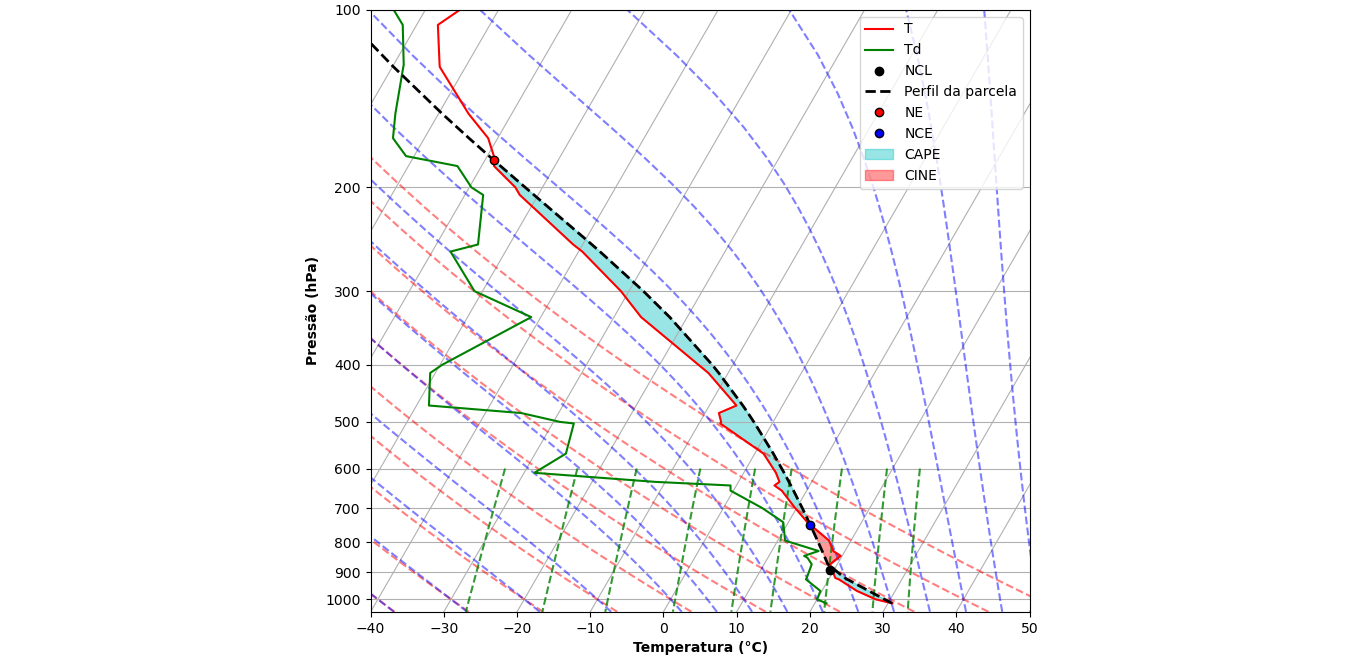
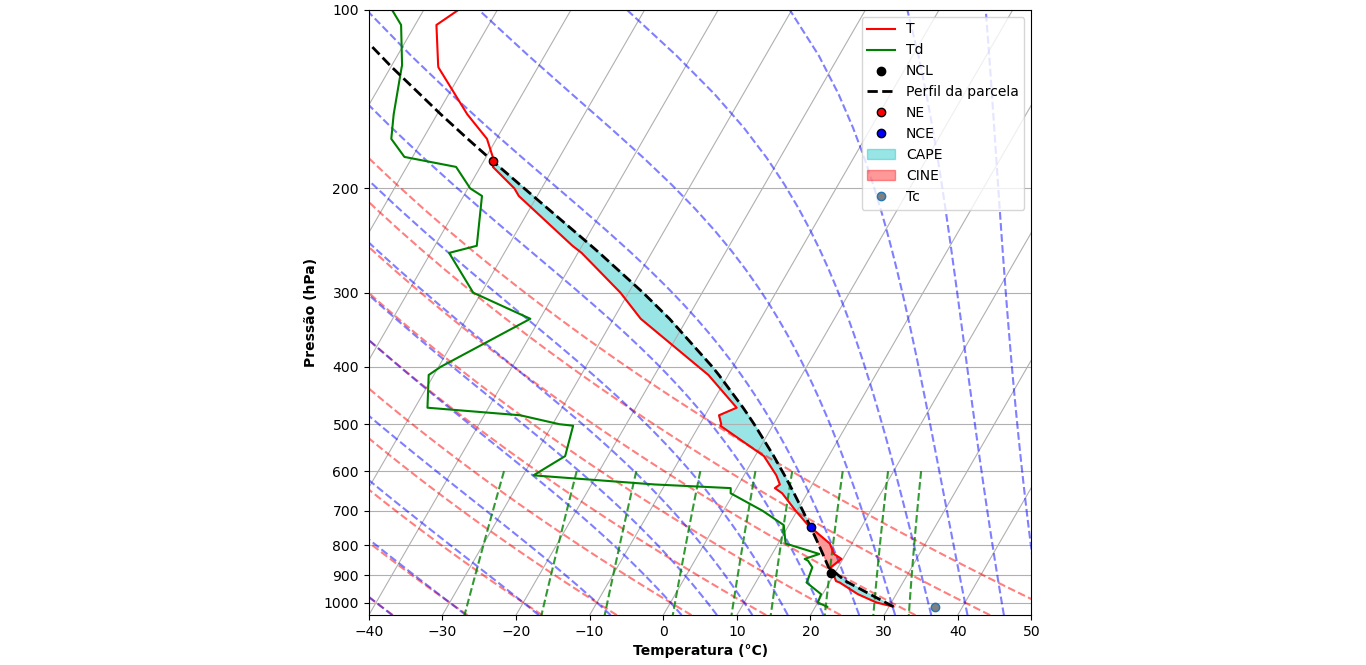
Add files via upload

diff --git a/atv_meteo2.py b/atv_meteo2.py
@@ -48,6 +48,10 @@ skew.shade_cape(pressao, T, prof,color='c', label='CAPE')
 #Adicionando área de CINE
 skew.shade_cin(pressao, T, prof, Td,color='r', label='CINE')
 
+# adicionando o NCC e a Tc
+ccl_pressure,ccl_temperature,Tc=mpcalc.ccl(pressao,T,Td, which='top')
+skew.plot(pressao[0],Tc, 'o', markerfacecolor='grey', label='Tc')
+print(Tc)
 # Definindo rótulos e legenda
 plt.xlabel('Temperatura (°C)',fontweight='bold',fontsize=10)
 plt.ylabel('Pressão (hPa)',fontweight='bold',fontsize=10)
